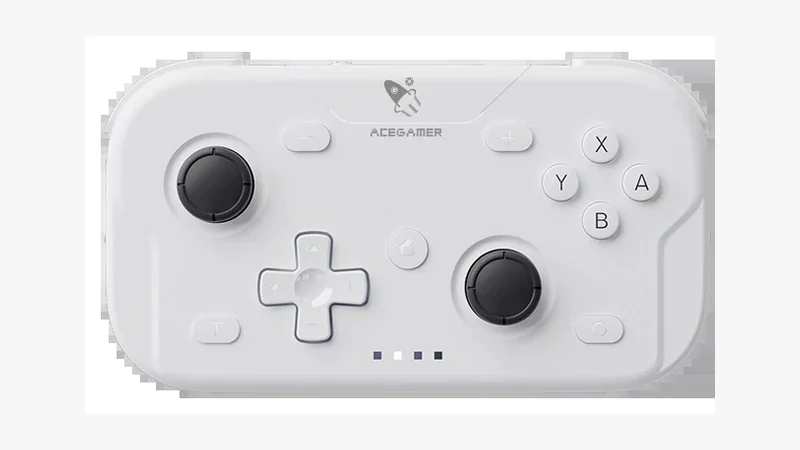
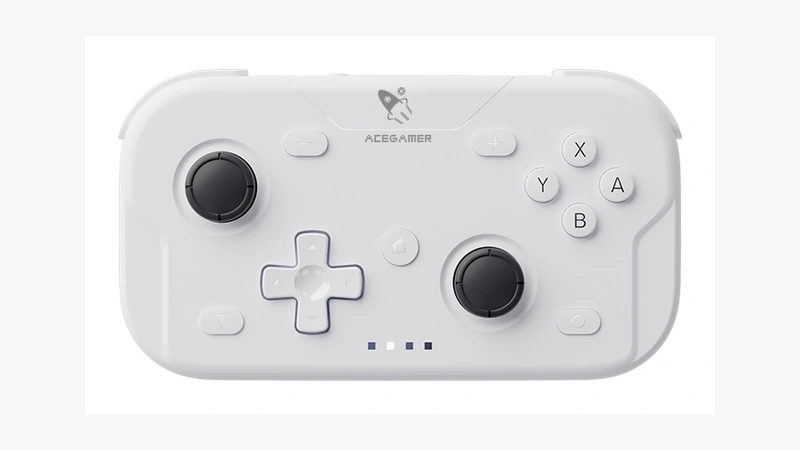
fix: rebuild the T50 hero from a sharper product photo
Replace the upscaled main-front.jpeg hero and catalog cover with a crop of the higher-resolution white front, still shown with contain.

diff --git a/controllers/t50/T50_Guide_TH.html b/controllers/t50/T50_Guide_TH.html
@@ -255,7 +255,7 @@ body[data-kind="reference"] :is(#prog,#pbar,#syb){display:none}
 .shots figure.map{margin:0}
 .shots figure.map img{background:#0c0c0e}
 </style></head><body data-kind="reference"><a class="skip" href="#intro">ข้ามไปเนื้อหา</a><svg width="0" height="0" style="position:absolute" aria-hidden="true"><defs><marker id="ah" viewBox="0 0 10 10" refX="9" refY="5" markerWidth="7" markerHeight="7" orient="auto"><path d="M0 0L10 5L0 10z" fill="#9a90b5"/></marker></defs></svg>
-<div class="top" data-cover="t50" data-hero="contain"><img src="hero.webp" width="640" height="384" alt="AceGamer T50 Wireless Pocket Controller สีขาว มุมด้านหน้า" decoding="async"><div class="topbar"><a class="back" href="../../controllers/index.html" aria-label="กลับไปรายการจอย"><svg width="24" height="24" viewBox="0 0 24 24" fill="none" stroke="currentColor" stroke-width="1.75" stroke-linecap="round" stroke-linejoin="round" aria-hidden="true"><path d="M15 5l-7 7 7 7"/></svg></a></div><h1>AceGamer T50 Wireless Pocket Controller</h1></div><header><nav class="sitenav" aria-label="เมนูหลัก"><a href="../../index.html">Game Guides</a><a href="../../controllers/index.html" aria-current="location">Controller Guide</a></nav><nav aria-label="สารบัญ"><div class="pkw"><button type="button" id="pkb" aria-haspopup="dialog" aria-expanded="false" aria-controls="pk"><svg width="18" height="18" viewBox="0 0 24 24" fill="none" stroke="currentColor" stroke-width="1.75" stroke-linecap="round" aria-hidden="true"><path d="M4 7h16M4 12h16M4 17h16"/></svg> เลือกหัวข้อ <span id="pkc" class="pkc"></span></button><div id="pk" class="pk" role="dialog" aria-modal="false" aria-labelledby="pkt" hidden><div class="pkhd"><span id="pkt">ไปที่หัวข้อ</span><a href="#intro" class="pkintro" data-s="intro">↑ เริ่มต้น</a><button type="button" class="pkx" aria-label="ปิด"><svg width="16" height="16" viewBox="0 0 24 24" fill="none" stroke="currentColor" stroke-width="1.75" stroke-linecap="round" aria-hidden="true"><path d="M6 6l12 12M18 6L6 18"/></svg></button></div><div class="pg"><h2 class="pgh">ตัวเครื่อง</h2><div class="grid gj"><a href="#photos" data-s="photos" title="ภาพสินค้า" aria-label="ภาพสินค้า"><b>ภาพ</b><span>ภาพสินค้า</span></a><a href="#spec" data-s="spec" title="รุ่นและสเปก" aria-label="รุ่นและสเปก"><b>สเปก</b><span>รุ่นและสเปก</span></a></div></div><div class="pg"><h2 class="pgh">การใช้งาน</h2><div class="grid gj"><a href="#connect" data-s="connect" title="โหมดเชื่อมต่อ และการจับคู่" aria-label="โหมดเชื่อมต่อ และการจับคู่"><b>เชื่อมต่อ</b><span>โหมดเชื่อมต่อ และการจับคู่</span></a><a href="#buttons" data-s="buttons" title="ฟังก์ชันปุ่ม" aria-label="ฟังก์ชันปุ่ม"><b>ฟังก์ชัน</b><span>ฟังก์ชันปุ่ม</span></a><a href="#battery" data-s="battery" title="โหมดสลีป แบตเตอรี่ และการชาร์จ" aria-label="โหมดสลีป แบตเตอรี่ และการชาร์จ"><b>แบต</b><span>โหมดสลีป แบตเตอรี่ และการชาร์จ</span></a></div></div><div class="pg"><h2 class="pgh">อ้างอิง</h2><div class="grid gr"><a href="#software" data-s="software" title="ซอฟต์แวร์และเฟิร์มแวร์" aria-label="ซอฟต์แวร์และเฟิร์มแวร์"><b>แอป</b><span>ซอฟต์แวร์และเฟิร์มแวร์</span></a><a href="#calib" data-s="calib" title="คาลิเบรต และการรีเซ็ต" aria-label="คาลิเบรต และการรีเซ็ต"><b>คาลิเบรต</b><span>คาลิเบรต และการรีเซ็ต</span></a><a href="#sources" data-s="sources" title="แหล่งที่มา" aria-label="แหล่งที่มา"><b>แหล่ง</b><span>แหล่งที่มา</span></a></div></div></div><div id="pkbg" hidden></div></div></nav><div class="hd"><input id="q" type="search" aria-label="ค้นหา" autocomplete="off" placeholder="ค้นหา เช่น บลูทูธ, เทอร์โบ, Switch…"><span id="prog" aria-live="polite"></span><span id="pbar" aria-hidden="true"><i></i></span></div><div class="tools"><button type="button" id="syb" aria-haspopup="dialog" aria-label="ตั้งค่าซิงก์" title="ตั้งค่าซิงก์"><svg width="22" height="22" viewBox="0 0 24 24" fill="none" stroke="currentColor" stroke-width="1.75" stroke-linecap="round" stroke-linejoin="round" aria-hidden="true"><path d="M7 18h10a4 4 0 0 0 .6-7.96A6 6 0 0 0 6.1 9.6 4.2 4.2 0 0 0 7 18z"/></svg><i id="syd0" aria-hidden="true"></i></button><button type="button" id="thm" class="thm" role="switch" aria-checked="false"><span class="sr" id="thml">ธีมสว่าง</span><span class="thm-track" aria-hidden="true"><span class="thm-knob"><svg class="sun" width="16" height="16" viewBox="0 0 24 24" fill="none" stroke="currentColor" stroke-width="1.75" stroke-linecap="round" aria-hidden="true"><circle cx="12" cy="12" r="4"/><path d="M12 2.5v2.2M12 19.3V21.5M2.5 12h2.2M19.3 12h2.2M4.8 4.8l1.6 1.6M17.6 17.6l1.6 1.6M19.2 4.8l-1.6 1.6M6.4 17.6l-1.6 1.6"/></svg><svg class="moon" width="16" height="16" viewBox="0 0 24 24" fill="none" stroke="currentColor" stroke-width="1.75" stroke-linecap="round" stroke-linejoin="round" aria-hidden="true"><path d="M20.5 14.2A8 8 0 1 1 9.8 3.5 6.4 6.4 0 0 0 20.5 14.2z"/></svg></span></span></button></div></header>
+<div class="top" data-cover="t50" data-hero="contain"><img src="hero.webp" width="688" height="413" alt="AceGamer T50 Wireless Pocket Controller สีขาว มุมด้านหน้า" decoding="async"><div class="topbar"><a class="back" href="../../controllers/index.html" aria-label="กลับไปรายการจอย"><svg width="24" height="24" viewBox="0 0 24 24" fill="none" stroke="currentColor" stroke-width="1.75" stroke-linecap="round" stroke-linejoin="round" aria-hidden="true"><path d="M15 5l-7 7 7 7"/></svg></a></div><h1>AceGamer T50 Wireless Pocket Controller</h1></div><header><nav class="sitenav" aria-label="เมนูหลัก"><a href="../../index.html">Game Guides</a><a href="../../controllers/index.html" aria-current="location">Controller Guide</a></nav><nav aria-label="สารบัญ"><div class="pkw"><button type="button" id="pkb" aria-haspopup="dialog" aria-expanded="false" aria-controls="pk"><svg width="18" height="18" viewBox="0 0 24 24" fill="none" stroke="currentColor" stroke-width="1.75" stroke-linecap="round" aria-hidden="true"><path d="M4 7h16M4 12h16M4 17h16"/></svg> เลือกหัวข้อ <span id="pkc" class="pkc"></span></button><div id="pk" class="pk" role="dialog" aria-modal="false" aria-labelledby="pkt" hidden><div class="pkhd"><span id="pkt">ไปที่หัวข้อ</span><a href="#intro" class="pkintro" data-s="intro">↑ เริ่มต้น</a><button type="button" class="pkx" aria-label="ปิด"><svg width="16" height="16" viewBox="0 0 24 24" fill="none" stroke="currentColor" stroke-width="1.75" stroke-linecap="round" aria-hidden="true"><path d="M6 6l12 12M18 6L6 18"/></svg></button></div><div class="pg"><h2 class="pgh">ตัวเครื่อง</h2><div class="grid gj"><a href="#photos" data-s="photos" title="ภาพสินค้า" aria-label="ภาพสินค้า"><b>ภาพ</b><span>ภาพสินค้า</span></a><a href="#spec" data-s="spec" title="รุ่นและสเปก" aria-label="รุ่นและสเปก"><b>สเปก</b><span>รุ่นและสเปก</span></a></div></div><div class="pg"><h2 class="pgh">การใช้งาน</h2><div class="grid gj"><a href="#connect" data-s="connect" title="โหมดเชื่อมต่อ และการจับคู่" aria-label="โหมดเชื่อมต่อ และการจับคู่"><b>เชื่อมต่อ</b><span>โหมดเชื่อมต่อ และการจับคู่</span></a><a href="#buttons" data-s="buttons" title="ฟังก์ชันปุ่ม" aria-label="ฟังก์ชันปุ่ม"><b>ฟังก์ชัน</b><span>ฟังก์ชันปุ่ม</span></a><a href="#battery" data-s="battery" title="โหมดสลีป แบตเตอรี่ และการชาร์จ" aria-label="โหมดสลีป แบตเตอรี่ และการชาร์จ"><b>แบต</b><span>โหมดสลีป แบตเตอรี่ และการชาร์จ</span></a></div></div><div class="pg"><h2 class="pgh">อ้างอิง</h2><div class="grid gr"><a href="#software" data-s="software" title="ซอฟต์แวร์และเฟิร์มแวร์" aria-label="ซอฟต์แวร์และเฟิร์มแวร์"><b>แอป</b><span>ซอฟต์แวร์และเฟิร์มแวร์</span></a><a href="#calib" data-s="calib" title="คาลิเบรต และการรีเซ็ต" aria-label="คาลิเบรต และการรีเซ็ต"><b>คาลิเบรต</b><span>คาลิเบรต และการรีเซ็ต</span></a><a href="#sources" data-s="sources" title="แหล่งที่มา" aria-label="แหล่งที่มา"><b>แหล่ง</b><span>แหล่งที่มา</span></a></div></div></div><div id="pkbg" hidden></div></div></nav><div class="hd"><input id="q" type="search" aria-label="ค้นหา" autocomplete="off" placeholder="ค้นหา เช่น บลูทูธ, เทอร์โบ, Switch…"><span id="prog" aria-live="polite"></span><span id="pbar" aria-hidden="true"><i></i></span></div><div class="tools"><button type="button" id="syb" aria-haspopup="dialog" aria-label="ตั้งค่าซิงก์" title="ตั้งค่าซิงก์"><svg width="22" height="22" viewBox="0 0 24 24" fill="none" stroke="currentColor" stroke-width="1.75" stroke-linecap="round" stroke-linejoin="round" aria-hidden="true"><path d="M7 18h10a4 4 0 0 0 .6-7.96A6 6 0 0 0 6.1 9.6 4.2 4.2 0 0 0 7 18z"/></svg><i id="syd0" aria-hidden="true"></i></button><button type="button" id="thm" class="thm" role="switch" aria-checked="false"><span class="sr" id="thml">ธีมสว่าง</span><span class="thm-track" aria-hidden="true"><span class="thm-knob"><svg class="sun" width="16" height="16" viewBox="0 0 24 24" fill="none" stroke="currentColor" stroke-width="1.75" stroke-linecap="round" aria-hidden="true"><circle cx="12" cy="12" r="4"/><path d="M12 2.5v2.2M12 19.3V21.5M2.5 12h2.2M19.3 12h2.2M4.8 4.8l1.6 1.6M17.6 17.6l1.6 1.6M19.2 4.8l-1.6 1.6M6.4 17.6l-1.6 1.6"/></svg><svg class="moon" width="16" height="16" viewBox="0 0 24 24" fill="none" stroke="currentColor" stroke-width="1.75" stroke-linecap="round" stroke-linejoin="round" aria-hidden="true"><path d="M20.5 14.2A8 8 0 1 1 9.8 3.5 6.4 6.4 0 0 0 20.5 14.2z"/></svg></span></span></button></div></header>
 <main><p id="empty" role="status">ไม่พบในคู่มือนี้</p><section id="intro"></section>
 <details id="photos" open><summary><h2>ภาพสินค้า</h2></summary><div class="shots"><figure class="map"><img src="img/white-back.webp" width="606" height="372" alt="ด้านหลัง สีขาว" loading="lazy" decoding="async"><figcaption>ด้านหลัง สีขาว <span class="cr">ภาพสินค้าทางการ acegamerstore.com</span></figcaption></figure><figure class="map"><img src="img/black-front.webp" width="614" height="373" alt="สีดำ" loading="lazy" decoding="async"><figcaption>สีดำ <span class="cr">ภาพสินค้าทางการ acegamerstore.com</span></figcaption></figure><figure class="map"><img src="img/blue-front.webp" width="604" height="373" alt="สีฟ้า" loading="lazy" decoding="async"><figcaption>สีฟ้า <span class="cr">ภาพสินค้าทางการ acegamerstore.com</span></figcaption></figure><figure class="map"><img src="img/pink-front.webp" width="610" height="373" alt="สีชมพู" loading="lazy" decoding="async"><figcaption>สีชมพู <span class="cr">ภาพสินค้าทางการ acegamerstore.com</span></figcaption></figure><figure class="map"><img src="img/2pack-front.webp" width="661" height="599" alt="ชุด 2 ชิ้น" loading="lazy" decoding="async"><figcaption>ชุด 2 ชิ้น <span class="cr">ภาพสินค้าทางการ acegamerstore.com</span></figcaption></figure></div><p>ภาพบนสุดของหน้านี้คือมุมด้านหน้าสีขาว ภาพในหัวข้อนี้เป็นภาพสินค้าทางการของ AceGamer ใช้ประกอบการดูทรงจอย</p></details>
 <details id="spec" open><summary><h2>รุ่นและสเปก</h2></summary><div class="tw"><table><tr><th>รายการ</th><th>ค่า</th><th>แหล่งที่มา</th></tr><tr><td>ชื่อรุ่น</td><td>AceGamer T50 Wireless Pocket Controller คู่มือพิมพ์ Model No. Pocket Controller และ N-S/PC/iOS/Android Wireless Controller</td><td>หน้าสินค้า, คู่มือ</td></tr><tr><td>สีที่วางขาย</td><td>ขาว, ดำ, ฟ้า, ชมพู และชุด 2 ชิ้น</td><td>หน้าสินค้า</td></tr><tr><td>ความเข้ากันได้</td><td>Switch, Switch 2, Switch Lite, Switch OLED, PC, iOS, Android, Steam Deck คู่มือระบุ N-S / N-S OLED / N-S Lite, PC โหมด X-input, iOS และ Android</td><td>หน้าสินค้า, คู่มือ</td></tr><tr><td>การเชื่อมต่อ</td><td>บลูทูธ 5.3 และ USB-C แบบมีสาย ไม่มีดองเกิล 2.4 GHz</td><td>หน้าสินค้า, คู่มือแนะนำบนเว็บแบรนด์</td></tr><tr><td>สวิตช์โหมด</td><td>สวิตช์ด้านบนของจอย ตำแหน่ง S = โหมด N-S, ตำแหน่ง X = โหมด X-input</td><td>คู่มือ</td></tr><tr><td>เลย์เอาต์ปุ่ม</td><td>สลับได้ระหว่างเลย์เอาต์แบบ Nintendo และแบบมาตรฐาน / PC</td><td>หน้าสินค้า, คู่มือ</td></tr><tr><td>แท่งอนาล็อก</td><td>แบบมาตรฐาน ยื่น-เก็บได้ และปรับความสูงได้ หมุนได้ 360 องศา หน้าสินค้าระบุว่าไม่ใช่ Hall-effect หรือ TMR</td><td>หน้าสินค้า, คู่มือแนะนำความเข้ากันได้กับ Switch 2</td></tr><tr><td>ไจโร</td><td>6 แกน</td><td>คู่มือ, หน้าสินค้า</td></tr><tr><td>มอเตอร์สั่น</td><td>คู่ ปรับได้ 4 ระดับ</td><td>คู่มือ, หน้าสินค้า</td></tr><tr><td>เทอร์โบ</td><td>มี ปรับความเร็วได้ 3 ระดับ</td><td>คู่มือ, หน้าสินค้า</td></tr><tr><td>แอป</td><td>GameMacro</td><td>คู่มือ, หน้าสินค้า</td></tr><tr><td>อัตราโพลลิง</td><td>1000 Hz เมื่อต่อสาย USB-C เข้าพีซี, 125 Hz เมื่อใช้บลูทูธ</td><td>หน้าสินค้า</td></tr><tr><td>ความจุแบตเตอรี่</td><td>400 mAh</td><td>คู่มือ, หน้าสินค้า</td></tr><tr><td>เวลาใช้งาน</td><td>ประมาณ 8 ชั่วโมง หน้าสินค้าระบุว่าขึ้นกับปริมาณการใช้งาน</td><td>คู่มือ, หน้าสินค้า</td></tr><tr><td>เวลาชาร์จ</td><td>ประมาณ 2 ชั่วโมง</td><td>คู่มือ, หน้าสินค้า</td></tr><tr><td>พอร์ตชาร์จ / สาย</td><td>USB Type-C แรงดันไฟเข้า DC 5.0V กระแสชาร์จประมาณ 230 mA คู่มือแนะนำแหล่งชาร์จ 5V/2A</td><td>คู่มือ, หน้าสินค้า</td></tr><tr><td>กระแสใช้งาน</td><td>ทำงาน ≤ 25 mA, สั่น ≤ 100 mA, สลีป &lt; 20 µA</td><td>คู่มือ</td></tr><tr><td>ระยะไร้สาย</td><td>น้อยกว่า 10 เมตร</td><td>คู่มือ</td></tr><tr><td>ขนาด</td><td>121 × 67 × 32 มม.</td><td>คู่มือ, หน้าสินค้า</td></tr><tr><td>น้ำหนัก</td><td>หน้าสินค้าระบุ 94 กรัม คู่มือระบุ 96 ± 2 กรัม</td><td>หน้าสินค้า, คู่มือ</td></tr></table></div></details>
